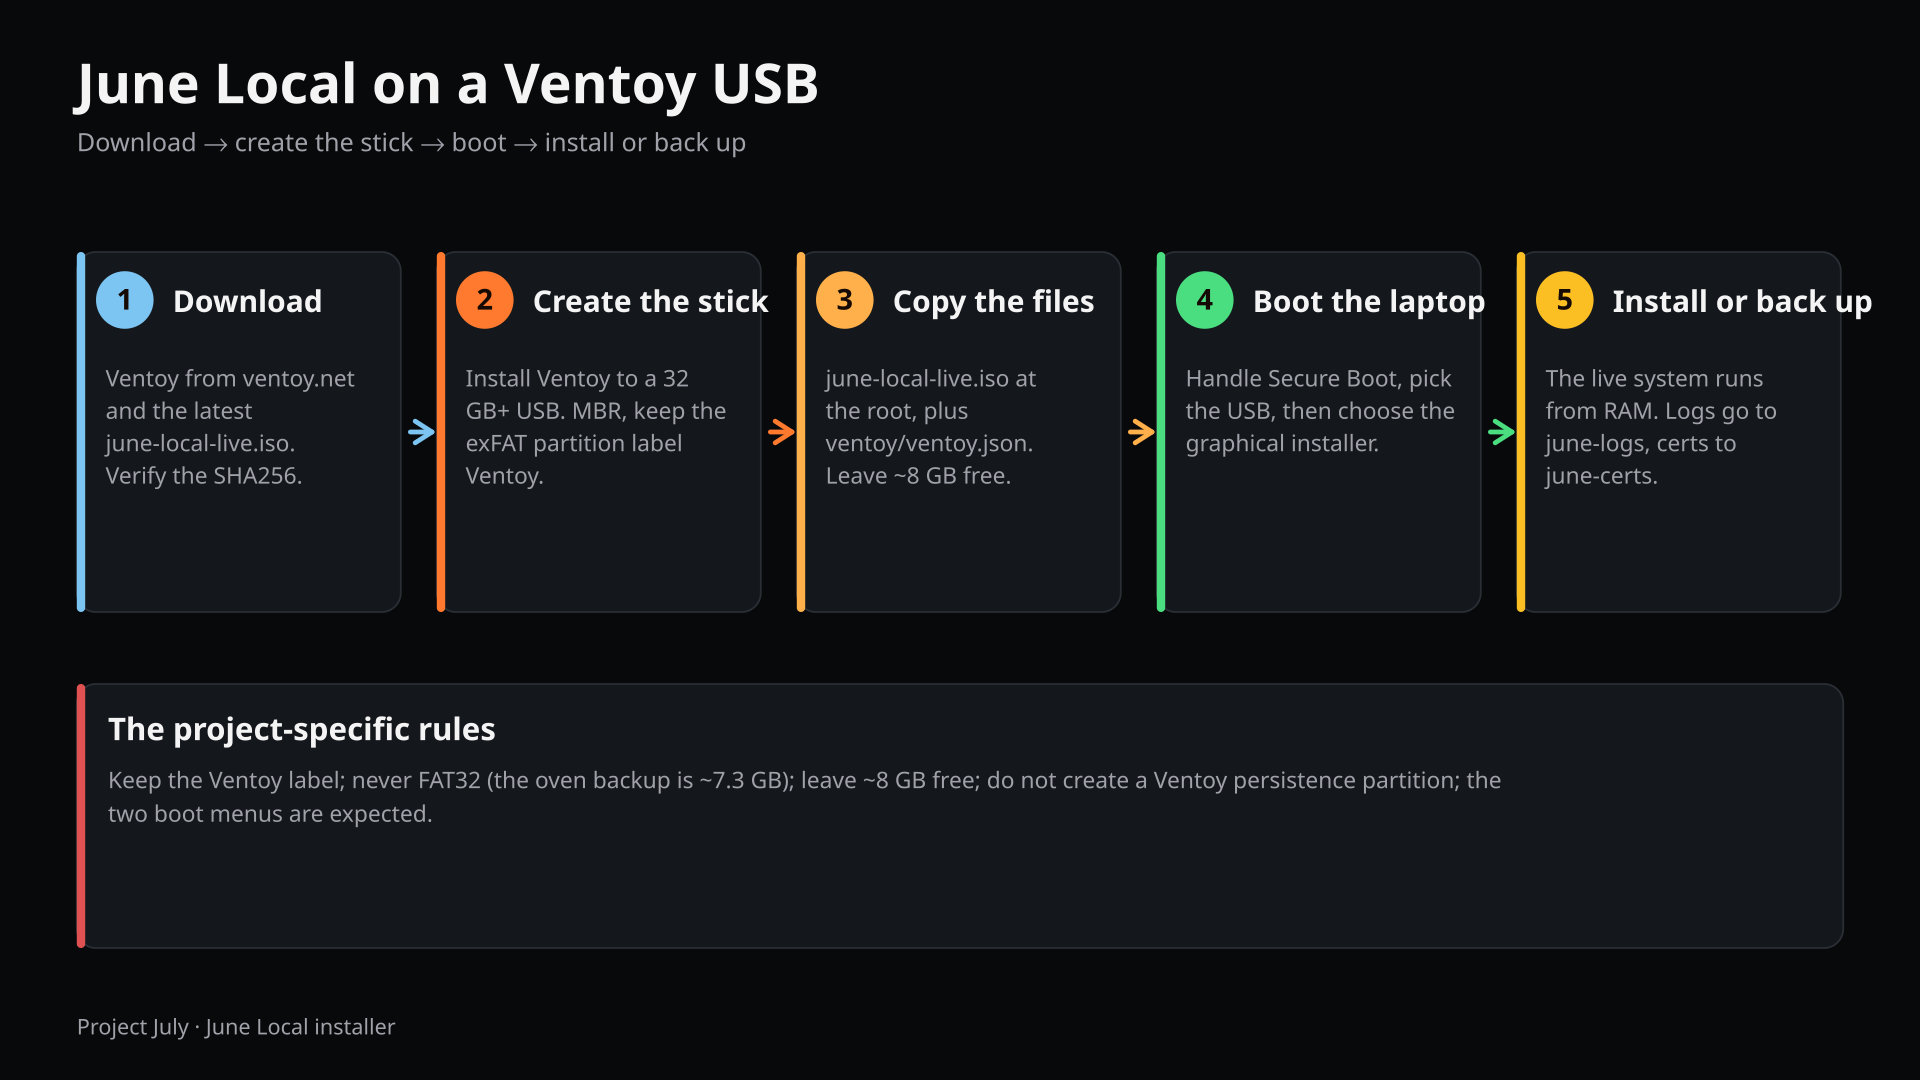
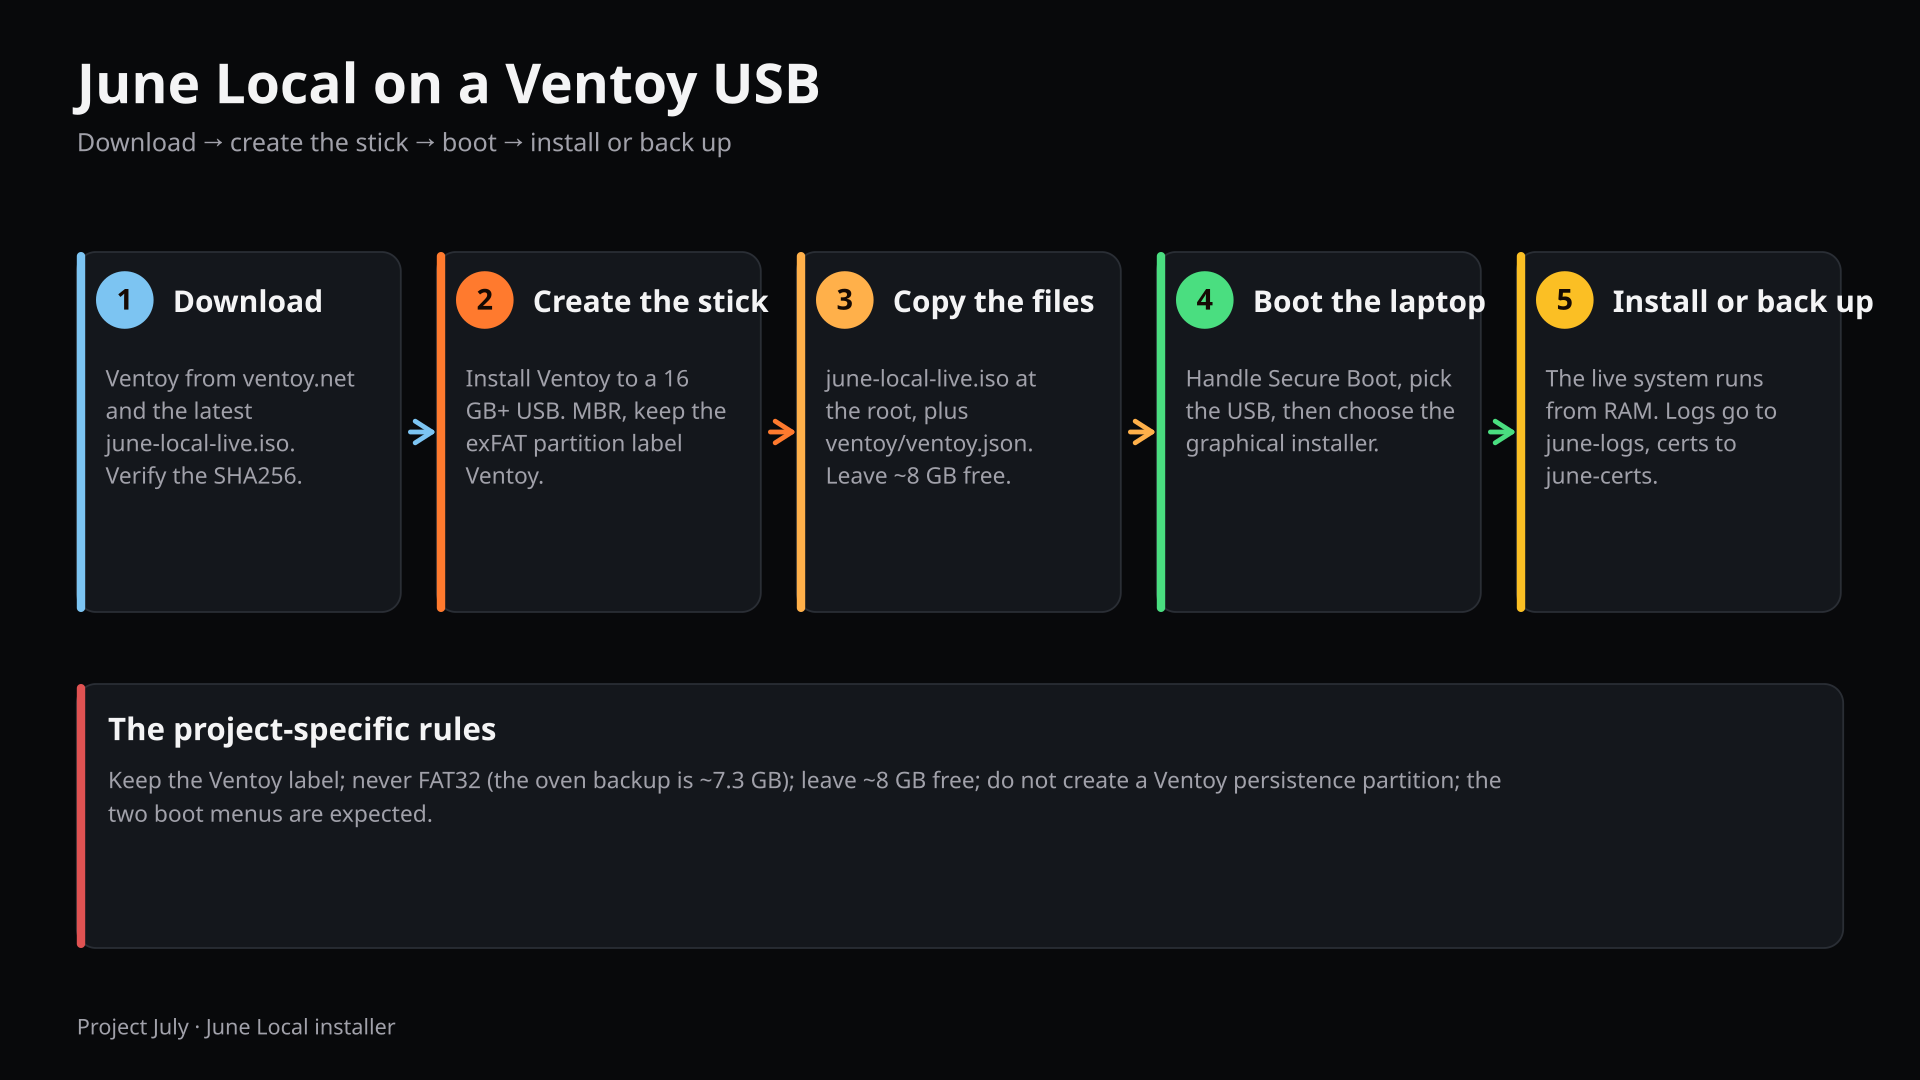
Lower the stick size to 16 GB minimum, 32 GB recommended
- Update the overview and USB layout assets to the new sizes
- Show the installer image as 1.4 GB

diff --git a/website-assets/generate_assets.py b/website-assets/generate_assets.py
@@ -163,7 +163,7 @@ def make_overview():
     out = [title_header("June Local on a Ventoy USB", "Download → create the stick → boot → install or back up")]
     steps = [
         ("1", "Download", "Ventoy from ventoy.net and the latest june-local-live.iso. Verify the SHA256.", BLUE),
-        ("2", "Create the stick", "Install Ventoy to a 32 GB+ USB. MBR, keep the exFAT partition label Ventoy.", EMBER),
+        ("2", "Create the stick", "Install Ventoy to a 16 GB+ USB. MBR, keep the exFAT partition label Ventoy.", EMBER),
         ("3", "Copy the files", "june-local-live.iso at the root, plus ventoy/ventoy.json. Leave ~8 GB free.", EMBER2),
         ("4", "Boot the laptop", "Handle Secure Boot, pick the USB, then choose the graphical installer.", GREEN),
         ("5", "Install or back up", "The live system runs from RAM. Logs go to june-logs, certs to june-certs.", AMBER),
@@ -256,7 +256,7 @@ def make_usb_layout():
     out.append(text(960, 320, "exFAT · keep the label · visible in Windows/Linux", size=19, fill=MUTED, anchor="middle"))
 
     items = [
-        ("june-local-live.iso", "≈ 1.1 GB · boot image", EMBER),
+        ("june-local-live.iso", "≈ 1.4 GB · boot image", EMBER),
         ("ventoy/ventoy.json", "auto-select the ISO", EMBER2),
         ("june-logs/", "installer logs", BLUE),
         ("june-certs/", "custom CA + leaf", GREEN),
@@ -269,7 +269,7 @@ def make_usb_layout():
         out.append(card(x, yy, 430, 120, name, sub, accent=color, title_size=23, pad=20))
 
     out.append(card(120, 730, 1360, 90, "Never FAT32", "FAT32 cannot store the ~7.3 GB oven backup. Use the Ventoy exFAT default or NTFS.", accent=RED, title_size=23, pad=20))
-    out.append(footer("32 GB minimum · 64 GB recommended if the same stick will hold a backup"))
+    out.append(footer("16 GB minimum · 32 GB recommended if the same stick will hold a backup"))
     return svg_doc("".join(out))
 
 
@@ -278,7 +278,7 @@ def make_copy_config():
     out.append(window_chrome(100, 170, 700, "Ventoy (E:) — file manager"))
     out.append(rect(130, 250, 640, 500, fill=PANEL, rx=14))
     rows = [
-        ("june-local-live.iso", "1.1 GB", EMBER),
+        ("june-local-live.iso", "1.4 GB", EMBER),
         ("ventoy/", "folder", EMBER2),
         ("june-logs/", "created at install", BLUE),
         ("june-certs/", "created at install", GREEN),
